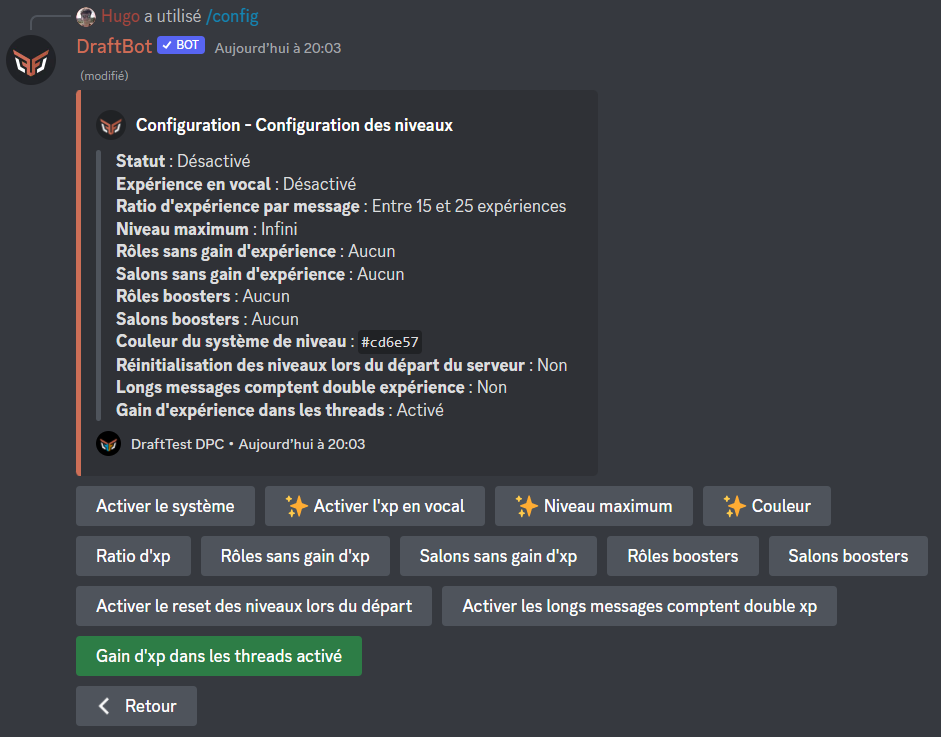
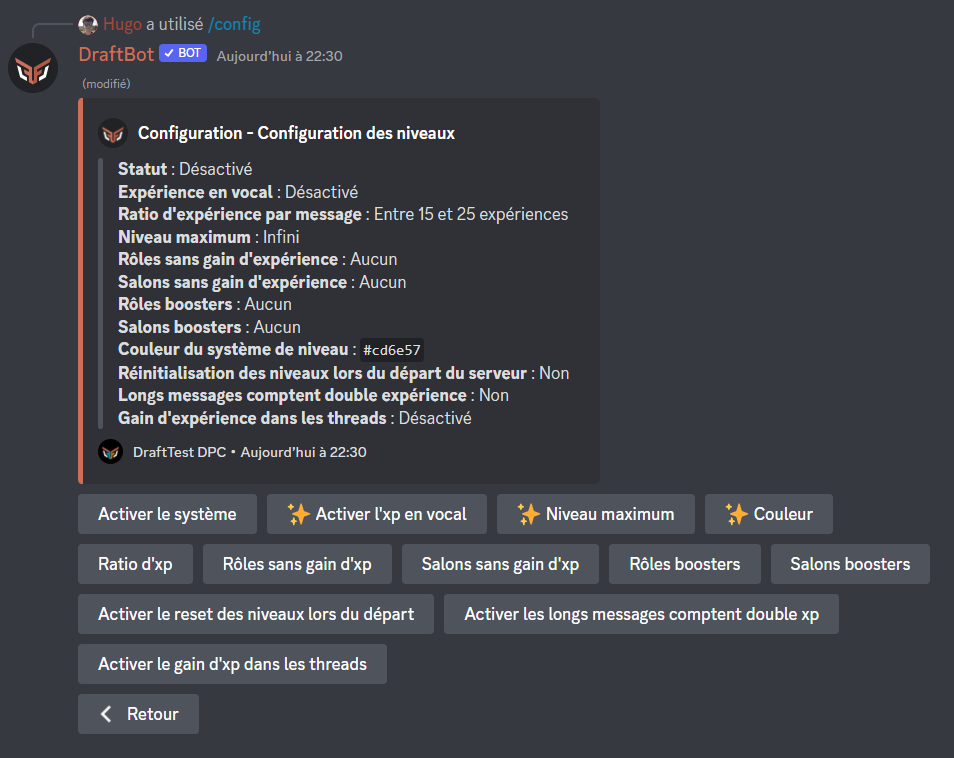
Ajout - Configuration_Système de niveaux

diff --git a/slash/gestion-des-niveaux.md b/slash/gestion-des-niveaux.md
@@ -9,23 +9,49 @@ description: >-
 Vous pouvez activer les niveaux, les désactiver, modifier leur intensité, ignorer des rôles et/ou des salons, les booster, les personnaliser ou encore les réinitialiser avec la commande <span style="color: #cd6e57">/config</span>, en vous rendant ensuite dans l'onglet "Niveaux" du sélecteur.
 
 Un message vous sera envoyé par **DraftBot** pour savoir si vous voulez configurer...
-
+<!-- 
 - Le système de niveaux
 - Les récompenses de niveau
 - L'annonce d'un nouveau niveau
-- L'annonce d'une récompense gagnée
+- L'annonce d'une récompense gagnée -->
 
+* ### Système de niveaux
+{% tabs %}
+{% tab title="Via les commandes sur Discord" %}
+* *Activer le système* : permet d'activer ou désactiver le système
+* *Activer l'xp en vocal* : une fois activé, les membres pourront gagnés de l'xp en vocal (conditions : être plus de deux humains dans le salon vocal ; le salon vocal ne doit pas être paramétré comme "AFK") ***(premium)***
+* *Niveau maximum* : permet de fixer un niveau maximal ne pouvant pas être dépassé par les membres une fois atteint ***(premium)***
+* *Couleur* : paramétrer une couleur pour tout le système d'économie ***(premium)***
+* *Ratio d'xp* : définir le nombre d'xp gagné par message
+* *Rôles / Salons sans gain d'xp* : permet de ne pas donner d'xp à un membre s'il possède un certain rôle ou si il envoie son message dans un certain salon
+* *Rôles / Salons boosters* : permet de donner plus d'xp à un membre s'il possède un certain rôle ou si il envoie son message dans un certain salon
+* *Activer le reset des niveaux lors du départ* : une fois activé, les membres perdront tout leur xp s'ils quittent le serveur
+* *Activer les longs messages comptent double xp* : une fois activé, les longs messages gagneront plus d'xp qu'à la normale
+* *Activer le gain d'xp dans les threads* : permet de gagner ou non de l'xp dans les threads du serveur.
 
-<details>
-<summary>Système de niveaux</summary>
-Plusieurs possibilités s'offrent à vous pour configurer le système de niveaux :
-- **Activer le système** : permet d'activer ou de désactiver le système
-- **Activer l'xp en vocal** : 
-- **Niveau maximum** : permet de mettre un niveau maximal à atteindre sur le serveur. Une fois ce niveau atteint, les membres seront bloqués à ce niveau et ne passerons pas au suppérieur.
+{% hint style="warning" %}
+Afin de ne pas encourager le "farm d'xp", **DraftBot** ne donne de l'xp que pour les messages ayant été envoyés 30 secondes après le message précédent du membre.
+{% endhint %}
 
+![Message de configuration des niveaux](../.gitbook/assets/config_niveaux_syst%C3%A8me%20de%20niveaux.png)
 
-![Alt text](../.gitbook/assets/config_niveaux_syst%C3%A8me%20de%20niveaux.png)
-</details>
+{% endtab %}
+
+{% tab title="Via le panel" %}
+
+{% embed url="https://draftbot.fr/dashboard" %}
+Accéder au panel de DraftBot
+{% endembed %}
+
+Sur le panel, vous avez les mêmes possibilités de configuration que les slash commandes mais vous avez ici tout sur la même page.
+
+Pour configurer le système de niveau, accédez au panel via le lien ci-dessus et rendez-vous dans la catégorie "Niveaux" sur le serveur de votre choix.
+
+![Panel de configuration des niveaux](../.gitbook/assets/config_niveaux_syst%C3%A8me%20de%20niveaux_panel.png)
+
+{% endtab %}
+{% endtabs %}
+
 
 ### Multiplier le gain d'un rôle
 
